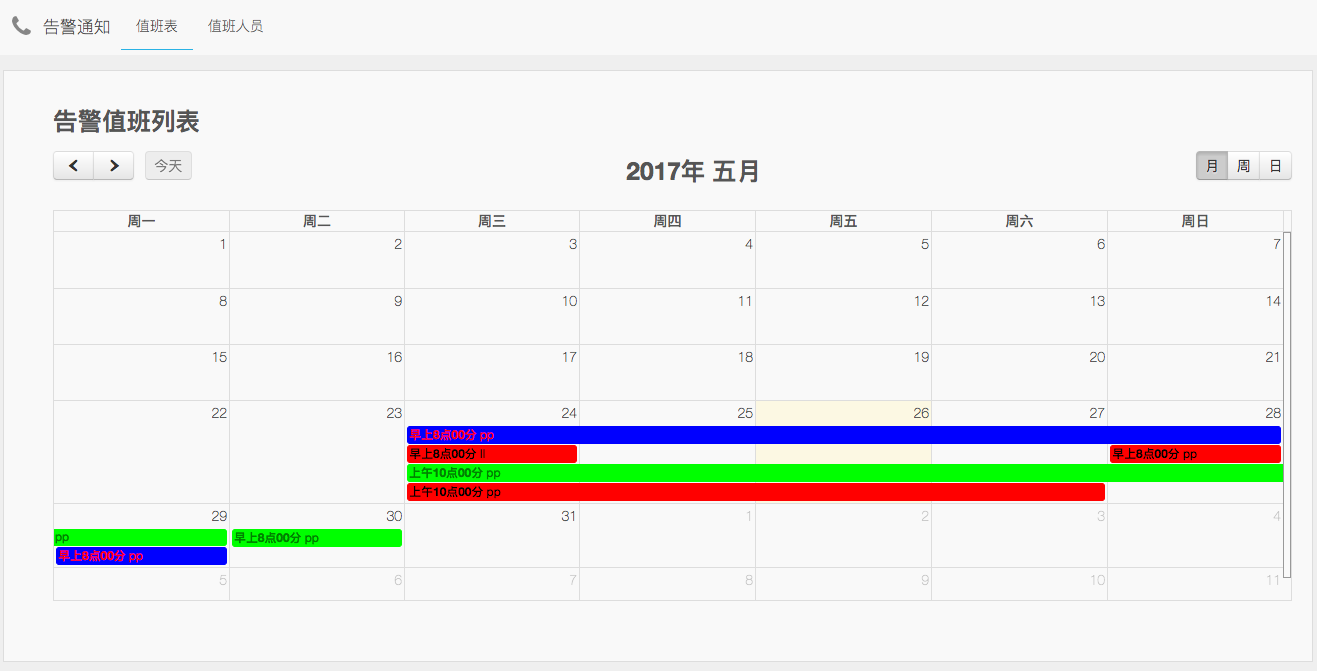
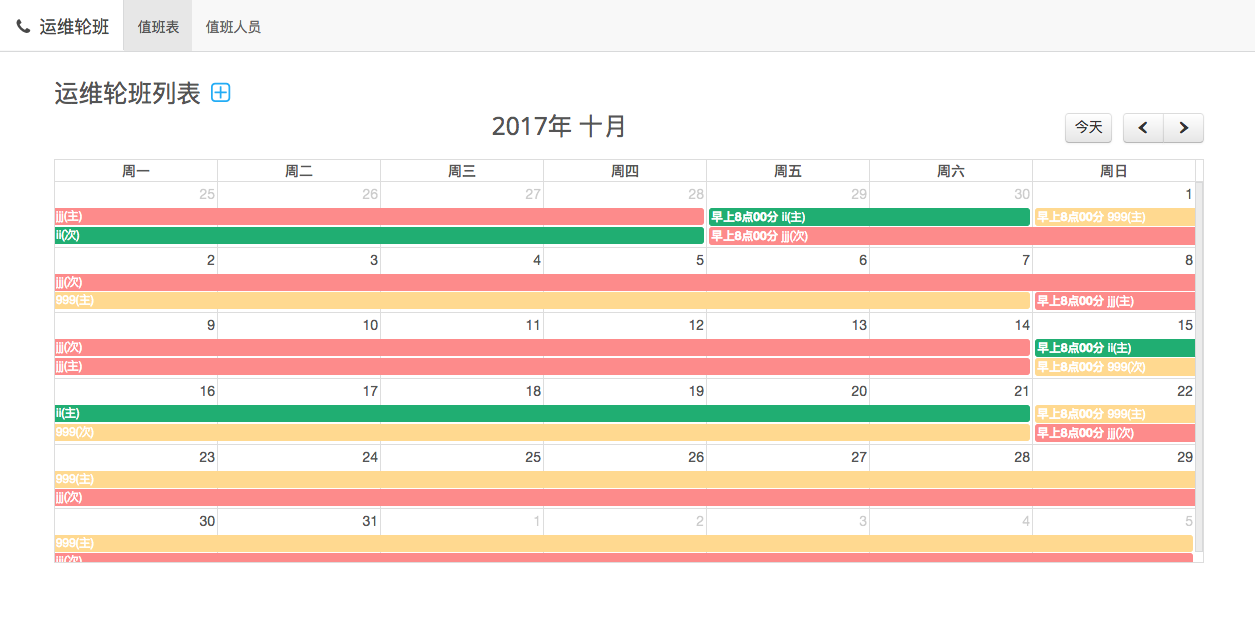
Updates part4/images/p4_31.png
Auto commit by GitBook Editor

diff --git a/SUMMARY.md b/SUMMARY.md
@@ -8,10 +8,10 @@
   * [智能分析面板](part4/ui_dashboard.md)
     * [图表\(graph\)](part4/ui_dashboard/graph.md)
     * [状态图\(singlestat\)](part4/ui_dashboard/singlestat.md)
-    * [表格\(table\)](/part4/ui_dashboard/table.md)
     * [饼图\(pie\)](part4/ui_dashboard/pie.md)
+    * [表格\(table\)](/part4/ui_dashboard/table.md)
   * [报警&关联分析](part4/alert_and_association.md)
-  * [实时报警通知](part4/oncaller.md)
+  * [运维轮班](part4/oncaller.md)
   * [自动异常探测](part4/annomaly.md)
   * [管理功能](part4/guan-li-gong-neng.md)
   * [探针管理](part4/collector.md)

diff --git a/part4/oncaller.md b/part4/oncaller.md
@@ -1,6 +1,6 @@
-## **UI 界面 - 实时报警通知**
+## **UI 界面 - 运维轮班**
 
-实时报警通知在发生报警时及时通过电子邮件或短信通知值守人员
+运维轮班在发生报警时及时通过电子邮件或短信通知值守人员
 
 ## 1.值班表
 
